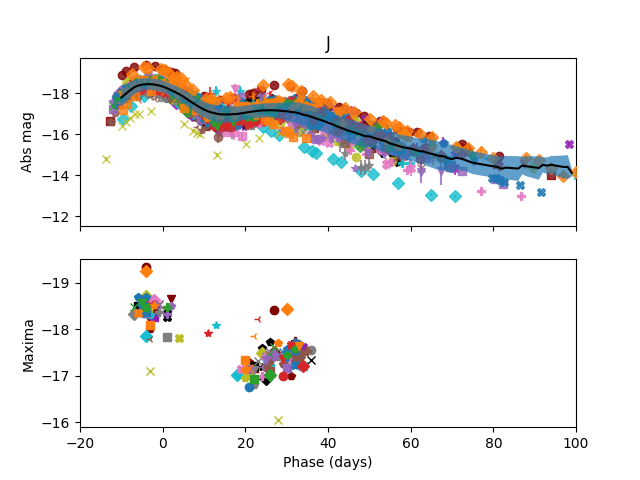
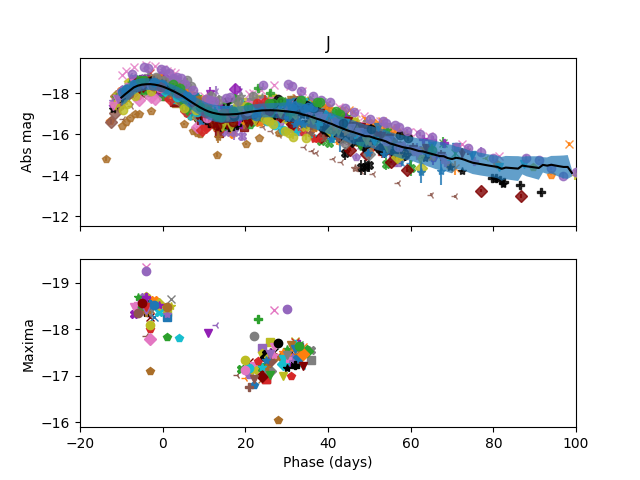
Added plots of light curves with x1 as the legend.

diff --git a/scripts/optical_parameters.py b/scripts/optical_parameters.py
@@ -19,6 +19,23 @@ def read_optical_fitted_table(filename):
     return data
 
 
+def common_optical_nir_sn(nirPeaks, opticalData, bandName):
+    """Find the common supernova names between optical and NIR
+    and create new DataFrames that contain only information for common SNe."""
+    nirPeaks = copy.deepcopy(nirPeaks)
+    opticalData = copy.deepcopy(opticalData)
+
+    nirNames = nirPeaks.index
+    opticalNames = opticalData.index
+    names = opticalNames.intersection(nirNames)
+    nirPeaks = nirPeaks.loc[names]
+    if not names.equals(opticalNames):
+        print("Some NIR SNe don't have optical data in %s" % bandName)
+        opticalData = opticalData.loc[names]
+
+    return nirPeaks, opticalData
+
+
 class CompareOpticalAndNIR(object):
     def __init__(self, opticalDataFilename, nirPeaks, bandName):
         self.opticalData = read_optical_fitted_table(opticalDataFilename)
@@ -32,26 +49,10 @@ class CompareOpticalAndNIR(object):
         # Add nirpeaks flux ratio
         self.nirPeaks['SecondMaxMag - FirstMaxMag'] = self.nirPeaks['secondMaxMag'] - self.nirPeaks['firstMaxMag']
 
-    def common_sn(self, nirPeaks, opticalData):
-        """Find the common supernova names between optical and NIR 
-        and create new DataFrames that contain only information for common SNe."""
-        nirPeaks = copy.deepcopy(nirPeaks)
-        opticalData = copy.deepcopy(opticalData)
-
-        nirNames = nirPeaks.index
-        opticalNames = opticalData.index
-        names = opticalNames.intersection(nirNames)
-        nirPeaks = nirPeaks.loc[names]
-        if not names.equals(opticalNames):
-            print("Some NIR SNe don't have optical data in %s" % self.bandName)
-            opticalData = opticalData.loc[names]
-
-        return nirPeaks, opticalData
-
     def nir_peaks_vs_optical_params(self):
         nirPeaks = self.nirPeaks[['SecondMaxMag - FirstMaxMag', 'secondMaxPhase']]
         opticalData = self.opticalData[['AbsMagB', 'x0', 'x1', 'c']]
-        nirPeaks, opticalData = self.common_sn(nirPeaks, opticalData)
+        nirPeaks, opticalData = common_optical_nir_sn(nirPeaks, opticalData, self.bandName)
 
         fig, ax = plt.subplots(nrows=len(opticalData.columns), ncols=len(nirPeaks.columns), sharex='col', sharey='row')
         fig.subplots_adjust(wspace=0, hspace=0)
@@ -75,7 +76,7 @@ class CompareOpticalAndNIR(object):
 
         # Only plot supernovae for which we have both optical and NIR data
         if xname in self.opticalData or yname in self.opticalData:
-            nirPeaks, opticalData = self.common_sn(self.nirPeaks, self.opticalData)
+            nirPeaks, opticalData = common_optical_nir_sn(self.nirPeaks, self.opticalData, self.bandName)
         else:
             nirPeaks, opticalData = copy.deepcopy(self.nirPeaks), copy.deepcopy(self.opticalData)
 

diff --git a/scripts/main.py b/scripts/main.py
@@ -4,7 +4,8 @@ import matplotlib.pyplot as plt
 
 from scripts.population_statistics import PopulationStatistics
 from scripts.helpers import get_filenames, get_colors_and_markers
-from scripts.optical_parameters import CompareOpticalAndNIR
+from scripts.optical_parameters import CompareOpticalAndNIR, common_optical_nir_sn
+from scripts.plot_specific_light_curves import plot_specific_light_curves
 
 
 def main():
@@ -34,16 +35,19 @@ def main():
         popStats = PopulationStatistics(filenameList, band)
         xBinsArray, yBinsArray, peaks, headerData = popStats.get_binned_light_curves(colorMarker=colorMarker, plot=True, bin_size=1, fig_spl=fig[0], ax_spl=ax[0], band_spl=band, i_spl=i)
         muList = popStats.get_mu(headerData)
-        labelledMaxima = popStats.plot_mu_vs_peaks(muList, peaks)
+        nirPeaks = popStats.plot_mu_vs_peaks(muList, peaks)
 
-        opticalNIR = CompareOpticalAndNIR('data/Table_salt_snoopy_fittedParams.txt', labelledMaxima, band)
-        opticalNIR.nir_peaks_vs_optical_params()
-        opticalNIR.plot_parameters(fig=fig[1], ax=ax[1], i=i, band=band, figinfo=figinfo[1])
-        opticalNIR.plot_parameters(fig=fig[2], ax=ax[2], i=i, band=band, figinfo=figinfo[2])
-        opticalNIR.plot_parameters(fig=fig[3], ax=ax[3], i=i, band=band, figinfo=figinfo[3])
-        opticalNIR.plot_parameters(fig=fig[4], ax=ax[4], i=i, band=band, figinfo=figinfo[4])
-        opticalNIR.plot_parameters(fig=fig[5], ax=ax[5], i=i, band=band, figinfo=figinfo[5])
+        # opticalNIR = CompareOpticalAndNIR('data/Table_salt_snoopy_fittedParams.txt', nirPeaks, band)
+        # opticalNIR.nir_peaks_vs_optical_params()
+        # opticalNIR.plot_parameters(fig=fig[1], ax=ax[1], i=i, band=band, figinfo=figinfo[1])
+        # opticalNIR.plot_parameters(fig=fig[2], ax=ax[2], i=i, band=band, figinfo=figinfo[2])
+        # opticalNIR.plot_parameters(fig=fig[3], ax=ax[3], i=i, band=band, figinfo=figinfo[3])
+        # opticalNIR.plot_parameters(fig=fig[4], ax=ax[4], i=i, band=band, figinfo=figinfo[4])
+        # opticalNIR.plot_parameters(fig=fig[5], ax=ax[5], i=i, band=band, figinfo=figinfo[5])
+        #
 
+        plot_specific_light_curves(filenameList='common_optical_nir', colorMarker=colorMarker, bin_size=1, band=band,
+                                   nirPeaks=nirPeaks, opticalDataFilename='data/Table_salt_snoopy_fittedParams.txt')
 
         # Get list of sn name
         for fname in popStats.filenameList:
@@ -51,8 +55,12 @@ def main():
             snNames[band].append(snName)
         snNames[band] = set(snNames[band])
 
+
     common_sn = list(snNames['Y'] & snNames['J'] & snNames['H'] & snNames['K'])
     print(common_sn)
+
+
+
     return common_sn
 
 

diff --git a/scripts/plot_specific_light_curves.py b/scripts/plot_specific_light_curves.py
@@ -1,0 +1,53 @@
+import os
+import matplotlib.pyplot as plt
+import numpy as np
+import pandas as pd
+
+from .fit_light_curve import LightCurve
+from .optical_parameters import read_optical_fitted_table, common_optical_nir_sn
+from .helpers import get_filenames
+
+
+def plot_specific_light_curves(filenameList=(), colorMarker=None, bin_size=1, band='Y', nirPeaks=None, opticalDataFilename=None, ):
+    if filenameList == 'common_optical_nir':
+        opticalFlag = True
+        opticalData = read_optical_fitted_table(opticalDataFilename)
+        nirPeaks, opticalData = common_optical_nir_sn(nirPeaks, opticalData, band)
+        snNameList = nirPeaks.index
+        filePathListAll, scriptDir = get_filenames(band)
+        filenameList= []
+        for snName in snNameList:
+            for filepath in filePathListAll:
+                if snName in filepath:
+                    filenameList.append(filepath)
+                    break  # Only take first sn found with same name
+        if len(filenameList) != len(snNameList):
+            raise IndexError("There is a problem with a filename not existing!")
+    else:
+        opticalFlag = False
+
+    fig, ax = plt.subplots(1, figsize=(8, 10))
+
+    zorder = 200
+    offset = 0
+    for i, filename in enumerate(filenameList):
+        snName = os.path.basename(filename).split('_')[0]
+        zorder -= 1
+        offset += 2
+
+        lightCurve = LightCurve(filename, bin_size=bin_size)
+
+        if opticalFlag:
+            label = opticalData['x1'][snName]
+            print(label, filename)
+        else:
+            label = snName
+
+        lightCurve.plot_light_curves(axis=ax, cm=colorMarker[i], zorder=zorder, label=label, plot_spline=False, offset=offset)
+
+    ax.set_title("{}: Light curves with x1 values".format(band))
+    ax.set_ylabel('Abs mag - offset')
+    ax.set_xlabel('Phase (days)')
+    ax.invert_yaxis()
+    ax.legend(loc=2, bbox_to_anchor=(1.01, 1))
+    fig.savefig("Figures/%s_lightcurves_with_x1_vals_with_offset.png" % band, bbox_inches='tight')

diff --git a/scripts/fit_light_curve.py b/scripts/fit_light_curve.py
@@ -45,18 +45,24 @@ class LightCurve(object):
 
         return fileVars, data
 
-    def plot_light_curves(self, axis, cm, zorder):
+    def plot_light_curves(self, axis, cm, zorder, label=None, plot_spline=False, offset=0):
         """ Plots the light curve with error bars and a different color for each"""
         data = self.data
-        label = os.path.basename(self.filename)
+
+        if label is None:
+            label = os.path.basename(self.filename).split('_')[0]
+
         if not data['Phase(T_Bmax)'].empty and axis is not None:
-            axis.errorbar(data['Phase(T_Bmax)'], data['Abs mag'], yerr=data['Error Abs mag'], fmt=cm[1],
-                          label=label.split('_')[0], zorder=zorder, color=cm[0], alpha=0.8)
+            axis.errorbar(data['Phase(T_Bmax)'], data['Abs mag']+offset, yerr=data['Error Abs mag'], fmt=cm[1],
+                          label=label, zorder=zorder, color=cm[0], alpha=0.8)
+            if plot_spline:
+                xBins, yBins = self.bin_light_curve()
+                axis.plot(xBins, yBins+offset, color=cm[0], marker=None)
 
             # plt.figure()
             # plt.errorbar(data['Phase(T_Bmax)'], data['App mag'], yerr=data['Error App mag'], fmt='o')
 
-    def bin_light_curve(self, fig=None, ax=None, band=None, i=0):
+    def bin_light_curve(self, fig=None, ax=None, band=None, i=0, interpKind='slinear'):
         phase = self.data['Phase(T_Bmax)'].values
         absMag = self.data['Abs mag'].values
         xBins = np.arange(-10, 100, self.bin_size)
@@ -68,7 +74,7 @@ class LightCurve(object):
         phase, unique_args = np.unique(phase, return_index=True)
         absMag = absMag[unique_args]
 
-        y = interpolate.interp1d(x=phase, y=absMag, kind='slinear', bounds_error=False, fill_value=np.NaN)
+        y = interpolate.interp1d(x=phase, y=absMag, kind=interpKind, bounds_error=False, fill_value=np.NaN)
         yBinned = y(xBins)
         # if fig is not None:
         #     snName = os.path.basename(self.filename).split('_')[0]

diff --git a/scripts/helpers.py b/scripts/helpers.py
@@ -15,7 +15,7 @@ def get_colors_and_markers():
               '#17becf', 'k', '#911eb4', '#800000', '#aa6e28']
     markers = ['o', 'v', 'P', '*', 'D', 'X', 'p', '3', 's', 'x', 'p']
     colorMarker = []
-    for color in colors:
-        for marker in markers:
+    for marker in markers:
+        for color in colors:
             colorMarker.append((color, marker))
     return colorMarker

diff --git a/scripts/population_statistics.py b/scripts/population_statistics.py
@@ -147,3 +147,5 @@ class PopulationStatistics(object):
         labelledMaxima = pd.DataFrame.from_dict(labelledMaxima).transpose()
 
         return labelledMaxima
+
+
